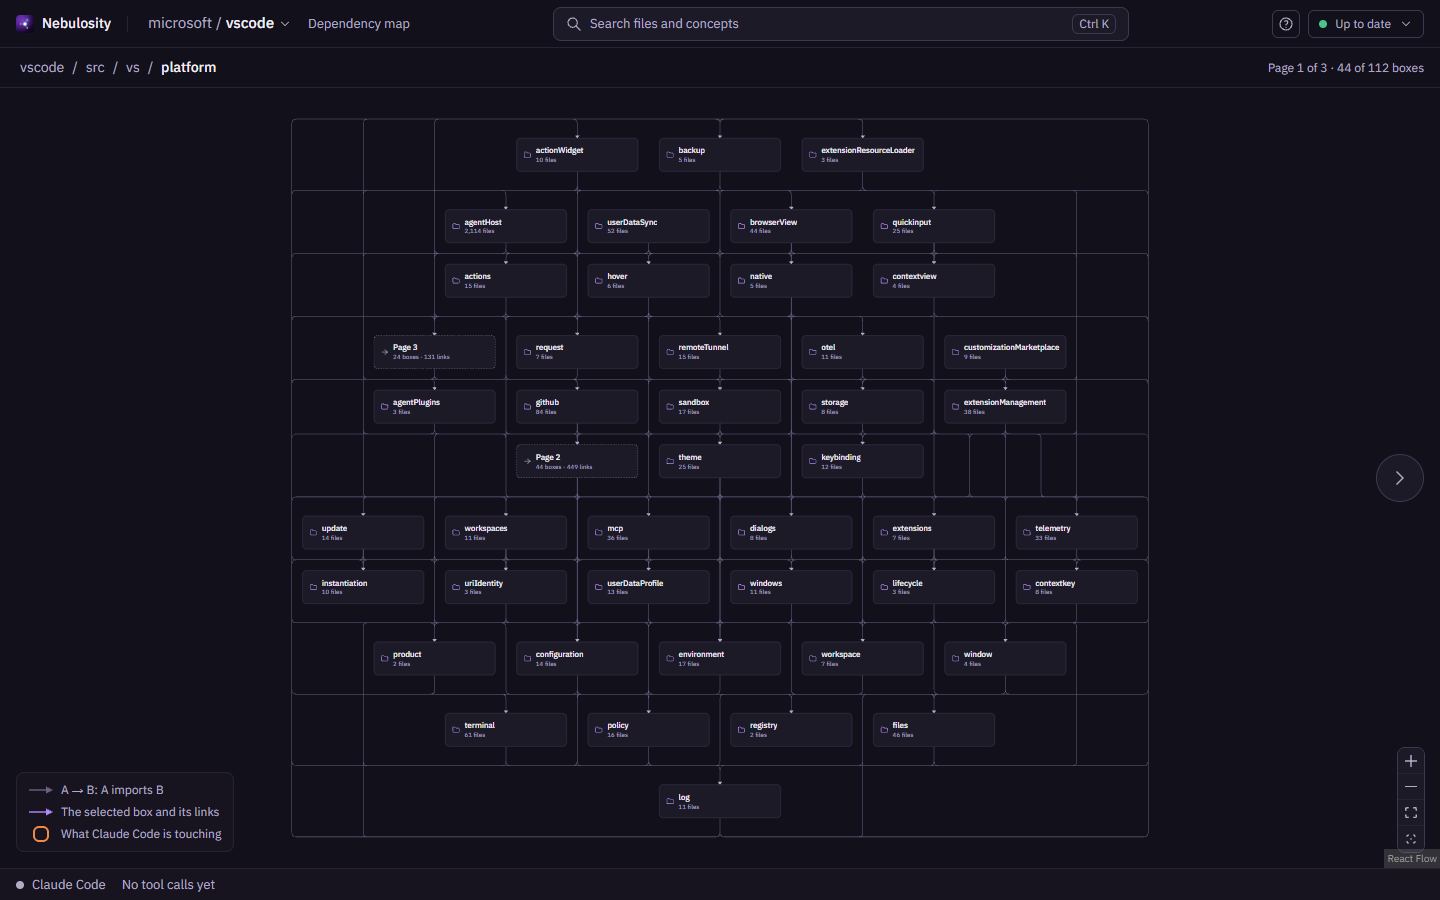
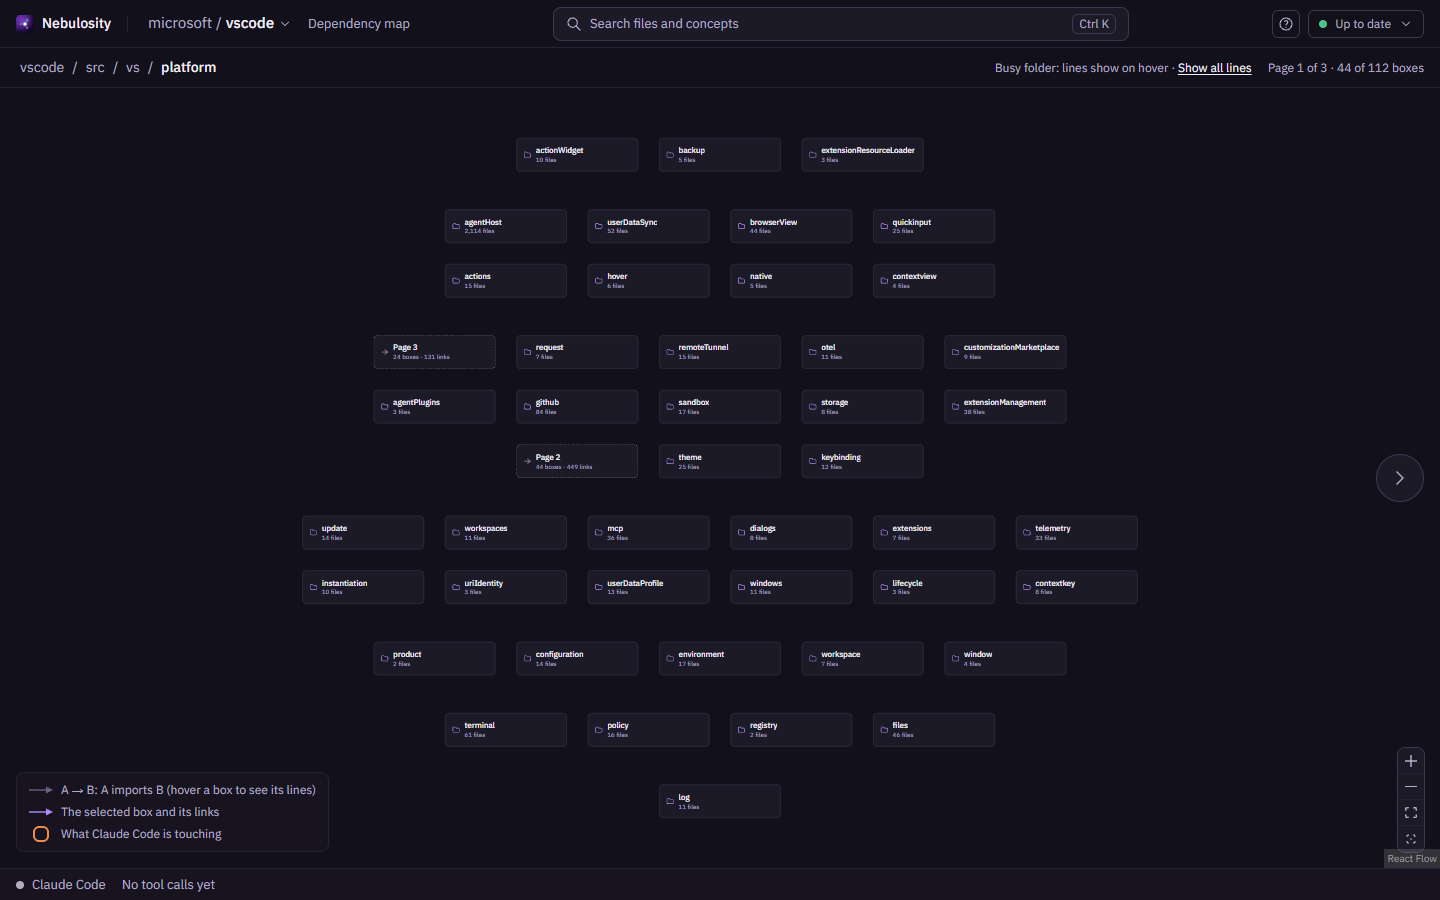
docs: S3 re-measured with busy levels drawing lines on hover, and the screenshots refreshed
Level changes p95 62.0 ms (87.8 before), src/vs/platform 46 ms, its page
turns 47 ms; clicks 37.3 ms, the src panel 21.2 ms, zoom frames 7.1 ms.
A frame monitor confirms the run wasn't throttled. The paged-level and
portal-panel screenshots now show the quiet lines.

diff --git a/docs/BENCHMARKS.md b/docs/BENCHMARKS.md
@@ -177,4 +177,14 @@ The first `describe()` loads the import graph: 101 ms, once per index version. *
 | zoom (frame interval during 20 wheel steps) | 154 | 6.9 ms | 7.2 ms | 7.8 ms |
 
 **S3 (≤ 100 ms per interaction): PASS** on the production build. **The `src` panel (≤ 300 ms warm): PASS** at 22 ms. The slowest level changes are the dense or paged ones: `src/vs/platform`'s page turns took 65 ms (page 2) and 88 ms (back to page 1, 44 boxes, 2 portals, 441 lines). In the warm-up pass, `platform`'s first draw took 101.6 ms. Frames ran at the display's 144 Hz (6.9 ms) throughout the zoom.
+- **After busy levels went quiet** (more than 60 lines draw only the hovered or selected box's lines, ADR-042 amended): the same walk on a fresh production build, with a frame monitor (longest gap between frames over the measured pass: 28 ms, so nothing was throttled). A first attempt was thrown away: the app window had gone behind another window, frames dropped to 1 a second, and panels "took" 1,000 ms.
+
+| Interaction | n | p50 | p95 | max |
+|---|---|---|---|---|
+| level change (`map:level`) | 18 | 33.7 ms | 62.0 ms | 62.0 ms |
+| click → panel with data (`map:select`) | 10 | 19.9 ms | 37.3 ms | 37.3 ms |
+| the `src` panel, warm (`map:select`) | 10 | 20.0 ms | 21.2 ms | 21.2 ms |
+| zoom (frame interval during 20 wheel steps) | 153 | 6.9 ms | 7.1 ms | 7.3 ms |
+
+  The busy levels drew fastest of all: `src/vs/platform` 46 ms (78.7 before), its page turns 47 ms each way (65 and 88 before), `src/vs/editor/common` 56 ms (70 before). The warm-up pass's slowest level was 68.9 ms (101.6 before). **S3: PASS**, with more room.
 
